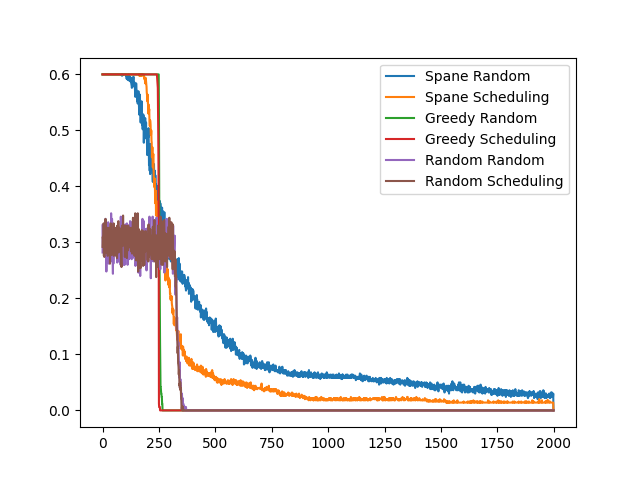
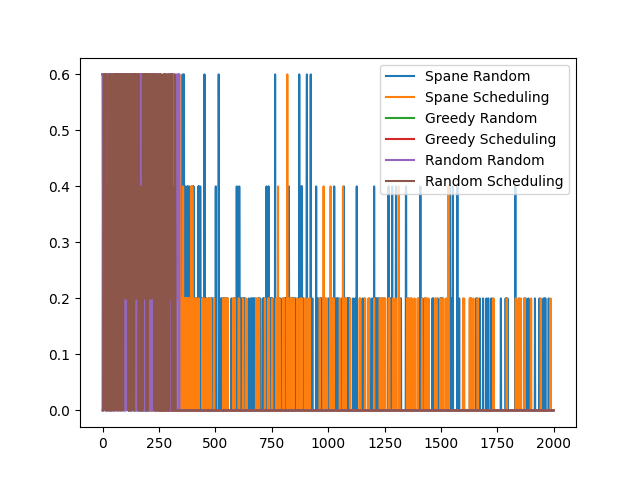
added files

Changed region(s): [[0.1562, 0.125, 0.875, 0.875]]

diff --git a/test_benchmark.py b/test_benchmark.py
@@ -6,41 +6,53 @@ from components.net import CNN
 import tqdm as tqdm
 #### Test spane algorithm against greedy and random scheduling
 #### Two key benchmarks: number of queries posed by each learner and the average number of classes from learner preference in the round that the learner learns in
+def plot_policy(policy,M,O):
+    policy_np =  np.zeros(M*O)
+    for i in range(M):
+        for j in range(O):
+            state = j*M + i
+            print(state)
+
+            policy_np[state] = policy(i,j,0)
+    plt.figure()
+    plt.plot(np.arange(M*O),policy_np)
+    plt.savefig("figures/policy.png")
 
 ### Policies 
 # policy_parameters_load = np.load("parameters/policy_parameters_spane_trained.npy").mean(axis=0)[-1,:,:,:]
+
 ## Synthetic policy parameters
 N = 5
 O = 5
 U = 4
+M = 50
 policy_parameters_load = np.zeros((N,O,3*(U-1)))
-policy_parameters_load[:,:,0::3] = np.array([[15,20,25],[10,15,20],[5,10,15],[0,5,10],[0,0,0]])
-policy_parameters_load[:,:,1::3] = np.array([[20,25,30],[15,20,25],[10,15,20],[5,10,15],[0,5,10]])
+policy_parameters_load[:,:,0::3] = np.array([[M-10,M-5,M],[M-20,M-15,M-10],[M-30,M-25,M-20],[M-40,M-35,M-30],[M-50,M-45,M-40]])
+policy_parameters_load[:,:,1::3] = np.array([[M,M,M],[M-10,M-5,M],[M-20,M-15,M-10],[M-30,M-25,M-20],[M-40,M-35,M-30]])
 policy_parameters_load[:,:,2::3] =  np.array([[1],[1],[1],[1],[1]])
 
-print(policy_parameters_load)
 ### Greedy Scheduling, Random Action
 spane_action = lambda l,o,n: get_action_from(policy_parameters_load[n,o],l)
 greedy_action_3 = lambda l,o,n: 3
 random_action = lambda l,o,n: np.random.choice(U)
-
+plot_policy(spane_action,M,O) 
 N_rounds = 2000
 N_Learners = 5
 N_classes = 10
 
-N_mc = 100
+N_mc = 1
 policies = [spane_action,spane_action,greedy_action_3,greedy_action_3,random_action,random_action]
 scheduling = [get_current_learner_random, get_current_learner, get_current_learner_random, get_current_learner, get_current_learner_random, get_current_learner]
 
 N_communication_rounds = np.zeros((len(policies),N_mc))
 
-learner_states_store = np.ones((N_mc,len(policies),N_rounds,N_Learners))*50  ### Stores the learner states for each mc round
+learner_states_store = np.ones((N_mc,len(policies),N_rounds,N_Learners))*M  ### Stores the learner states for each mc round
 class_counts = np.zeros((len(policies),N_mc,N_rounds,N_Learners,2)) ### Stores the class counts for each mc round
 round_participation = np.zeros((len(policies),N_mc,N_rounds,N_Learners)) ### Stores the round participation for each mc round
 action_rounds = np.zeros((len(policies),N_mc,N_rounds,N_Learners)) ### Stores the actions for each mc round
-oracle_states_store = np.zeros((N_mc,N_rounds,N_Learners))
+oracle_states_store = np.zeros((N_mc,len(policies),N_rounds,N_Learners))
 
-PERFORM_EXP =0
+PERFORM_EXP = 1
 
 if PERFORM_EXP:
     for mc_round in tqdm.tqdm(range(N_mc)):
@@ -48,18 +60,19 @@ if PERFORM_EXP:
         oracle.initialize_clients(CNN)
         for policy in range(len(policies)):
             learner_done = np.zeros((N_Learners))
-            for round in np.arange(N_rounds-1):
+            for round_ in np.arange(N_rounds-1):
+                oracle_states = oracle.get_oracle_states("class")
+                oracle_states_store[mc_round,policy,round_,:] = oracle_states.copy().flatten()
                 if learner_done.sum() < N_Learners:
                     
-                    current_round_learner_states = learner_states_store[mc_round,policy,round,:].copy()
-                    oracle_states = oracle.get_oracle_states("class")
+                    current_round_learner_states = learner_states_store[mc_round,policy,round_,:].copy()
                     
                     current_learner = scheduling[policy](current_round_learner_states,oracle_states)
                     if learner_done[current_learner] == 1:
                         continue
 
                     action = policies[policy](current_round_learner_states[current_learner],oracle_states[current_learner],current_learner)
-                    action_rounds[policy,mc_round,round,current_learner] = action
+                    action_rounds[policy,mc_round,round_,current_learner] = action
                     if action != 0:
                         action -= 1
                         oracle.update_client_selection_matrix(action,oracle.learner_class_preference[current_learner])
@@ -70,20 +83,22 @@ if PERFORM_EXP:
                             current_round_learner_states[current_learner] -= 1
                         if current_round_learner_states[current_learner] == 0:
                             learner_done[current_learner] = 1
-
+                oracle.update_client_partition_matrix()
                 current_round_learner_states[current_round_learner_states<0] = 0
-                learner_states_store[mc_round,policy,round+1,:] = current_round_learner_states.copy()
-                class_counts[policy,mc_round,round+1,current_learner,:] = oracle.class_dist[oracle.learner_class_preference[current_learner]]
-                round_participation[policy,mc_round,round+1,current_learner] = 1
+                learner_states_store[mc_round,policy,round_+1,:] = current_round_learner_states.copy()
+                class_counts[policy,mc_round,round_+1,current_learner,:] = oracle.class_dist[oracle.learner_class_preference[current_learner]]
+                round_participation[policy,mc_round,round_+1,current_learner] = 1
     np.save("parameters/learner_states.npy",learner_states_store)
     np.save("parameters/class_counts.npy",class_counts)
     np.save("parameters/round_participation.npy",round_participation)
     np.save("parameters/action_rounds.npy",action_rounds)
+    np.save("parameters/oracle_states.npy",oracle_states_store)
 
 action_rounds = np.load("parameters/action_rounds.npy")
 learner_states_store = np.load("parameters/learner_states.npy")
 class_counts = np.load("parameters/class_counts.npy")
 round_participation = np.load("parameters/round_participation.npy")
+oracle_states_store = np.load("parameters/oracle_states.npy")
 
 
 ## For each mc round, for each learner take average of only the rounds that the learner participated in
@@ -125,3 +140,10 @@ for i in range(len(policies)):
     plt.plot(np.arange(N_rounds),class_counts.mean(1).mean(2)[i],label=policy_names[i])
 plt.legend()
 plt.savefig("figures/class_counts.png")
+
+plt.figure()
+fig,axs = plt.subplots(1,N_Learners)
+for i in range(N_Learners):
+    axs[i].plot(np.arange(N_rounds),oracle_states_store.mean(0)[0,:,i],label="Learner "+str(i))
+plt.legend()
+plt.savefig("figures/oracle_states.png")

diff --git a/utils/funcs.py b/utils/funcs.py
@@ -38,15 +38,18 @@ def sigmoid_function(x,shift=0,tau=0.1):
 def get_action_from(policy_parameters,learner_state):
     policy_parameters = policy_parameters.flatten() ### load policy parameters
     n_thresholds = 2*len(policy_parameters)//3 ### number of thresholds, 2/3 multiplication because one of the parameter is probability
-    sorted_thresholds = np.sort(policy_parameters[0:n_thresholds]) ### the sort doesn't do much
-    probabilities = np.sin(policy_parameters[n_thresholds::])**2 ## probability parameters
+    sorted_thresholds_1 = np.sort(policy_parameters[0::3]) ### the sort doesn't do much
+    sorted_thresholds_2 = np.sort(policy_parameters[1::3])
+    probabilities = np.sin(policy_parameters[2::3])**2 ## probability parameters
     action = 0 ## output action
-    for i in range(sorted_thresholds.shape[0]):
+    for i in range(n_thresholds):
         ### action probs calculated according to the sigmoid function (formulae in paper)
+        j = i//2
         if i % 2 == 0:
-            action+=sigmoid_function(learner_state,shift=sorted_thresholds[i])*(1-probabilities[i//2]) 
+            
+            action+=sigmoid_function(learner_state,shift=sorted_thresholds_1[j])*(1-probabilities[i//2]) 
         else:    
-            action+=sigmoid_function(learner_state,shift=sorted_thresholds[i])*probabilities[i//2]
+            action+=sigmoid_function(learner_state,shift=sorted_thresholds_2[j])*probabilities[i//2]
         
     action_index = np.floor(action).astype(int) ### action
     action_prob = action - action_index ### its probability

diff --git a/components/client_oracle.py b/components/client_oracle.py
@@ -13,7 +13,7 @@ class Oracle():
                 n_categories_per_group = [2,5],
                 N_max = 60,
                 max_classes = 2,
-                p_stay = [[0.8,0.2],[0.2,0.8]],
+                p_stay = [[0.7,0.3],[0.3,0.7]],
                 N_learners = 5,
                 client_dirichlet_alpha = [[0.6,0.4],[0.42,0.2,0.16,0.14,0.08]],
                 client_dirichlet_alpha_class = [0.1,0.1,0.1,0.1,0.1,0.1,0.1,0.1,0.1,0.1],
@@ -147,6 +147,7 @@ class Oracle():
         # self.group_dist = self.client_dataset_selection_matrix_groups.sum(axis=0)
         # self.group_dist[0:self.n_categories_per_group[0]] = self.group_dist[0:self.n_categories_per_group[0]]/np.max(self.group_dist[0:self.n_categories_per_group[0]])
         # self.group_dist[self.n_categories_per_group[0]:] = self.group_dist[self.n_categories_per_group[0]:]/np.max(self.group_dist[self.n_categories_per_group[0]:])
+    def update_client_partition_matrix(self):
         for client in range(self.n_clients):
             self.client_selection_matrix[client] = np.random.choice([0,1],p = self.p_stay[int(self.client_selection_matrix[client])])
         if self.client_selection_matrix.sum() == 0:
